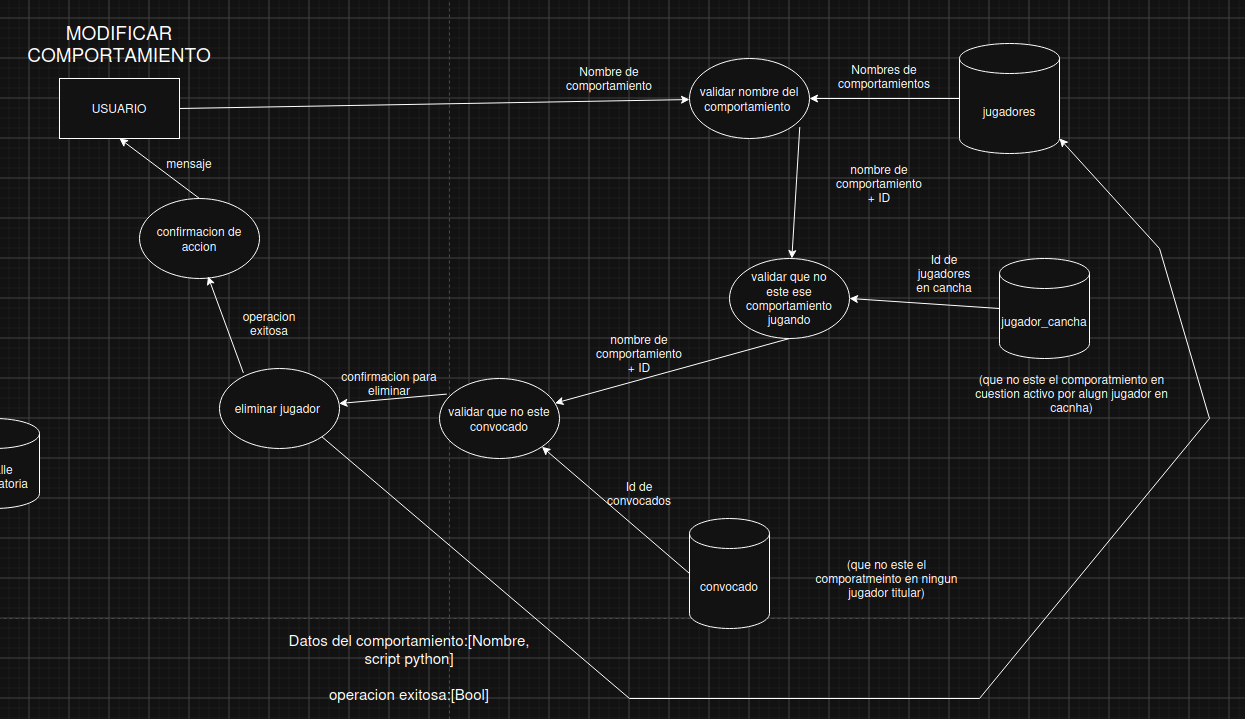
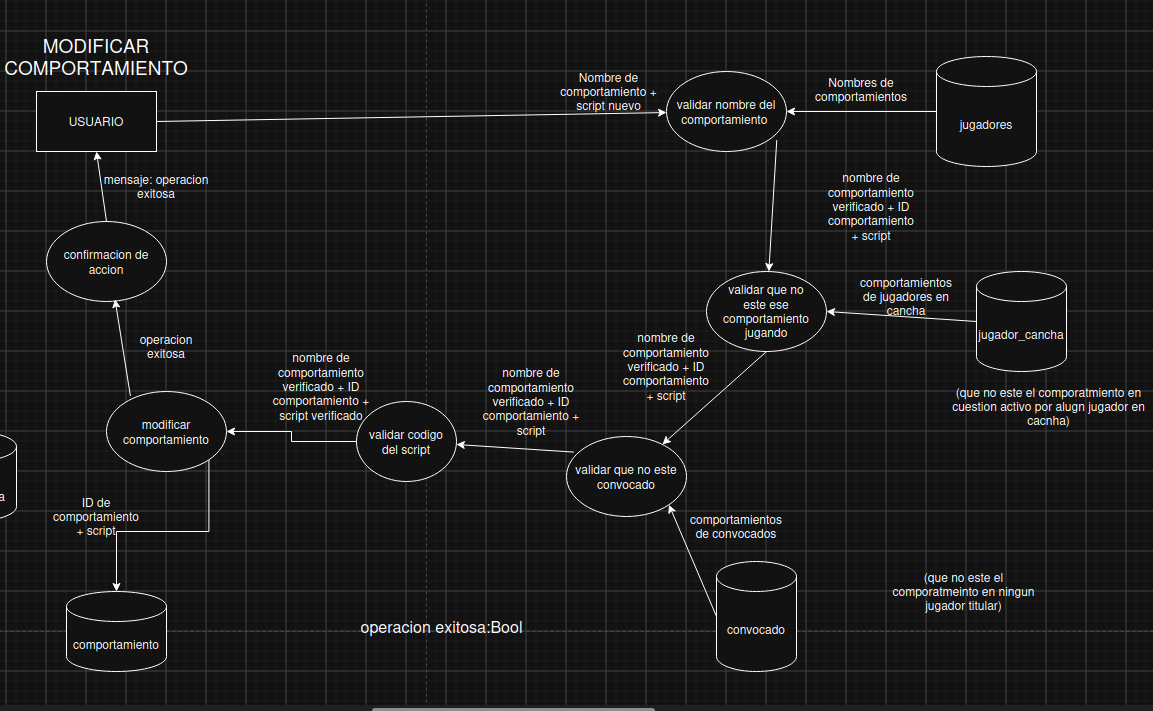
fix: dfd y caso de uso 11,12

diff --git a/CasosDeUso.md b/CasosDeUso.md
@@ -316,6 +316,10 @@
 
 5.a. La nueva sintaxis es inválida -> El sistema indica que hay errores de sintaxis y solicita corrección.
 
+6.a. El comportamiento que se quiere modificar esta siendo utilizado en un partido -> El sistema indica que no se puede modificar el comportamiento
+
+7.a. El comportamiento que se quiere modificar es utilizado en una convocatoria -> El sistema indica que no se puede modificar el comportamiento
+
 ---
 
 ## Caso de Uso 12:
@@ -343,6 +347,10 @@
 4.a. El comportamiento no existe -> El sistema indica la falla en el paso 4 y espera que el usuario seleccione otro comportamiento.
 
 5.a. El comportamiento está asignado a un jugador convocado -> El sistema impide la eliminación e informa del conflicto.
+
+6.a. El comportamiento que se quiere modificar esta siendo utilizado en un partido -> El sistema indica que no se puede modificar el comportamiento
+
+7.a. El comportamiento que se quiere modificar es utilizado en una convocatoria -> El sistema indica que no se puede modificar el comportamiento
 
 ---
 
